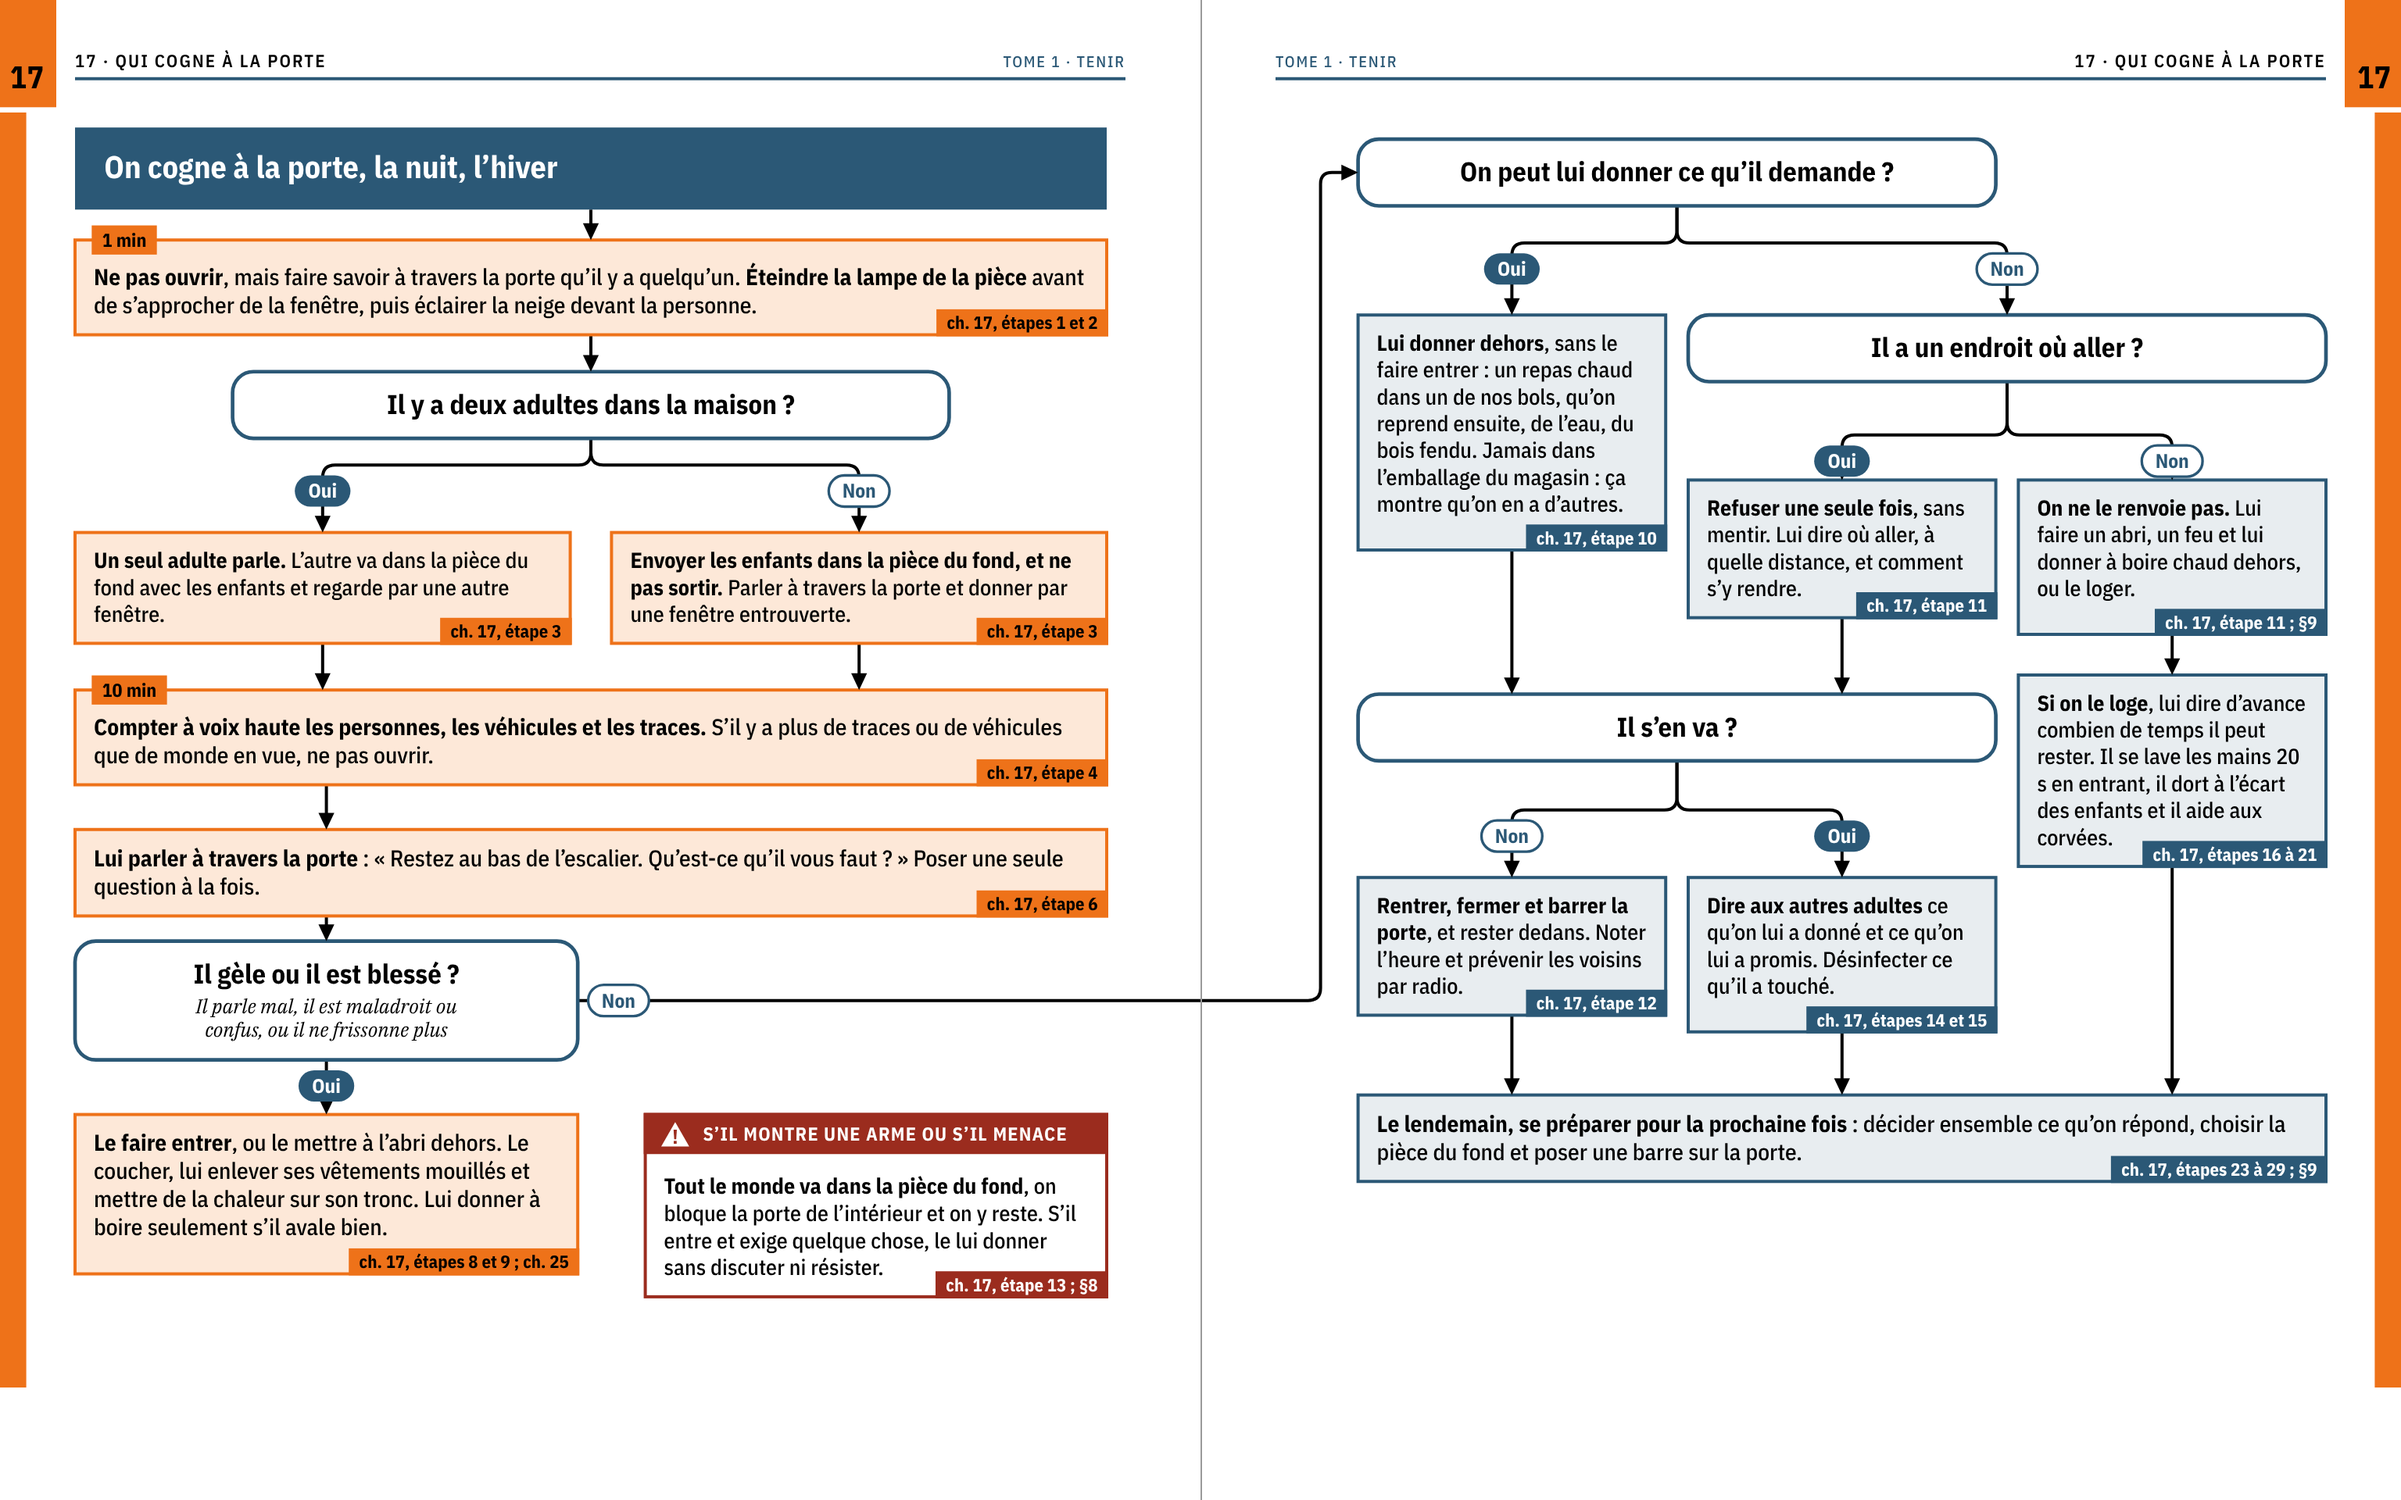
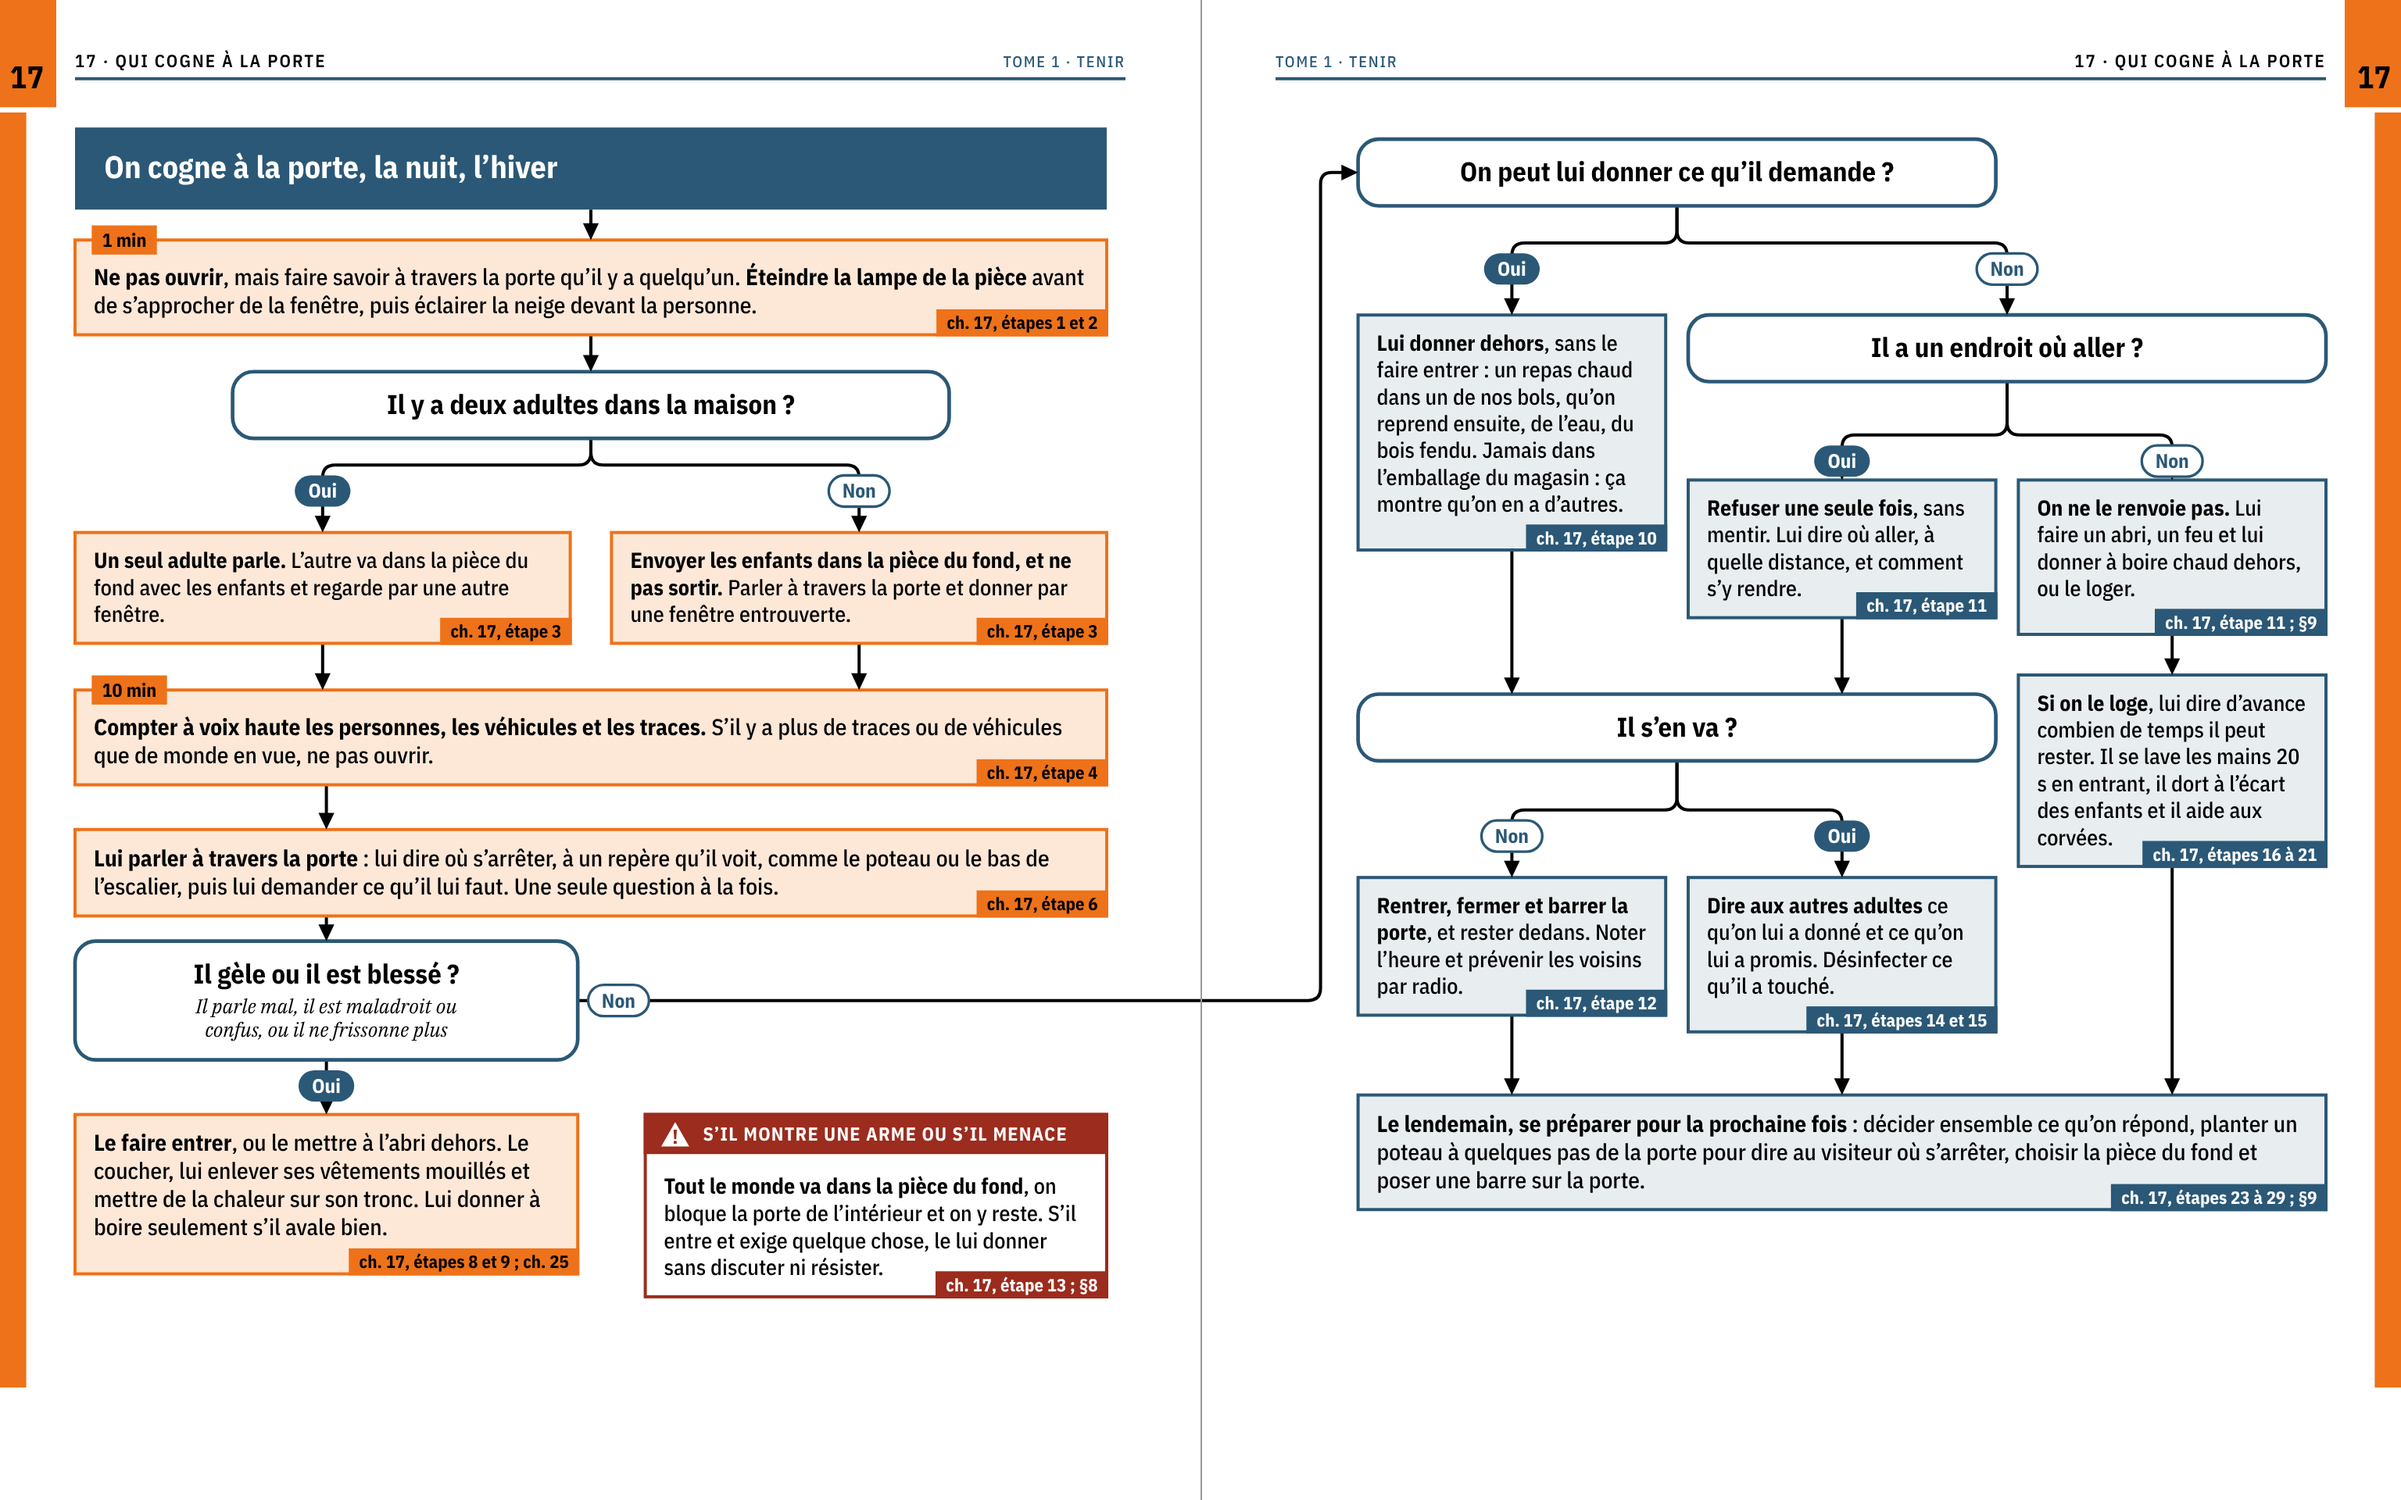
Logigramme du 17 : le poteau revient, expliqué (JP)
Claude-Session: https://claude.ai/code/session_014xDY5FLxFXDJt3nYAYznSZ

Changed region(s): [[0.5625, 0.75, 0.9688, 0.8125], [0.1562, 0.5625, 0.4375, 0.5938], [0.0625, 0.5625, 0.125, 0.5938]]

diff --git a/suivi/plan-de-match.md b/suivi/plan-de-match.md
@@ -74,8 +74,9 @@ parler »). Tous les agents arrêtés, leurs fichiers et leurs ancrages poussés
   logigrammes (02, 04, 16, 17) sont refaits selon cette règle ; les chapitres, non. Points précis de JP :
   - ch. 17, étape 5 : lire le thermomètre et le vent dans les dix premières minutes ne tient pas (« on est en
     pleine nuit, on se fait réveiller, oublie ça le thermomètre ») : sort de la série orange ;
-  - ch. 17, étapes 6 et 26 : « Restez au poteau » et le poteau planté (« c'est quoi cette phrase là ») :
-    on dit « Restez au bas de l'escalier », un repère qui existe ;
+  - ch. 17, étapes 6 et 26 : le poteau reste (JP : « je comprends le poteau, c'est en préparation, ça fait
+    du sens »), mais il s'explique là où il apparaît : planté d'avance à quelques pas de la porte, pour dire
+    au visiteur où s'arrêter. « Restez au poteau » tout seul ne se comprend pas ;
   - ch. 4, étape 9 : « Couche du dessus enlevée en arrivant » (participe en chaîne) ;
   - le logigramme ne redit pas les avertissements (JP, sur l'encadré du réchaud du ch. 17 : « on l'a dit 1000
     fois »).
